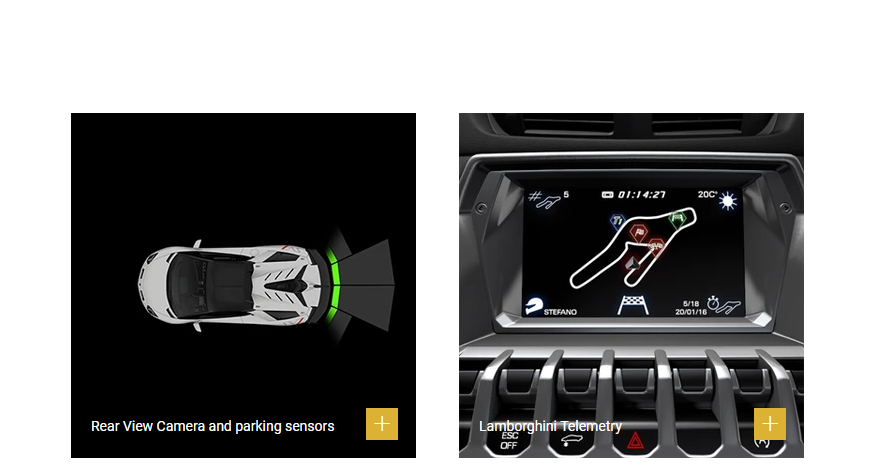
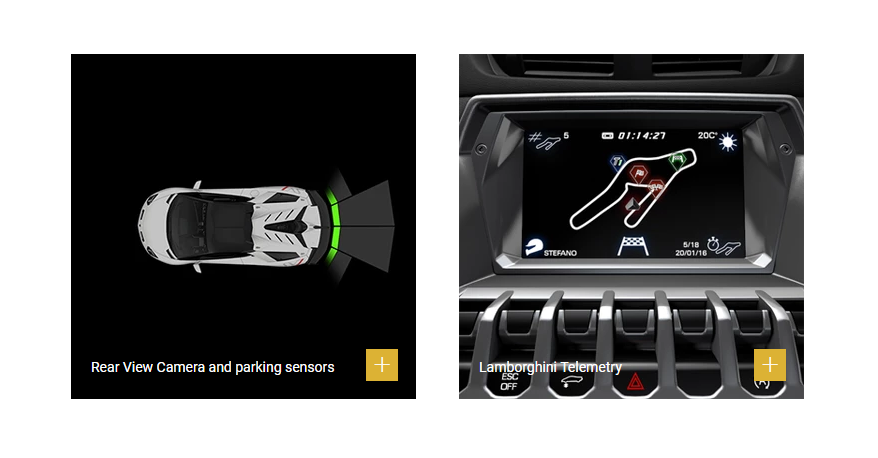
new commit

diff --git a/index.html b/index.html
@@ -4,29 +4,29 @@
     <meta charset="UTF-8">
     <meta name="viewport" content="width=device-width, initial-scale=1.0">
     
-    <link rel="stylesheet" href="styles.css">
+    <link rel="stylesheet" href="styles3.css">
     <title>Lamborghini Configurator</title>
     </head>
     <body>
-        <br><br><br><br>
+        <br><br><br><br><br><br><br>
 
 <div class="everything">
 
  <div class="row">     
 
-      
     <p>AVENTADOR SVJ 63 ROADSTER EDITION</p>
     <hr class="hr1">
+       
     <div style="letter-spacing: .5em;" class="links">     
-      <a href="index.html" style="color: rgb(255, 81, 0);" >EXTERIOR</a>
-      &nbsp;&nbsp;     &nbsp;    
-      <a href="interior.html" >INTERIOR</a>
-          &nbsp;&nbsp;        &nbsp;    
-  
-      <a href="options.html">OPTIONS</a>
-          &nbsp;         &nbsp;    
-      <a href="extra.html">YOUR CAR</a>
-  </div>
+        <a href="index.html" style="color: rgb(255, 81, 0);" >EXTERIOR</a>
+        &nbsp;&nbsp;     &nbsp;    
+        <a href="interior.html"  >INTERIOR</a>
+            &nbsp;&nbsp;        &nbsp;    
+    
+        <a href="options.html">OPTIONS</a>
+            &nbsp;         &nbsp;    
+        <a href="extra.html">YOUR CAR</a>
+    </div>
      <br><br><br><br><br><br><br>
     <br><br><br><br><br>
 <br><br><br><br><br><br><br><br><br><br><br><br><br><br><br>     
@@ -34,11 +34,11 @@
 
 <div class="menu">
 <div class="dropup">
-    <button class="dropbtn">Rims</button>
+    <button class="dropbtn">Rims </button>
     <div class="dropup-content">
-      <a href="rimbronze.html"><img class="rim" src="images/leirionbronze.png"></a>
-      <a href="rimblack.html"><img class="rim" src="images/leirionshinyblack.png" >  </a>
-      <a href="rimtitanium.html"><img class="rim" src="images/leiriontitanium.png" > </a>
+        <a href="rimbronze.html"><img class="rim" src="images/leirionbronze.png"></a>
+        <a href="rimblack.html"><img class="rim" src="images/leirionshinyblack.png"></a>
+        <a href="rimtitanium.html"><img class="rim" src="images/leiriontitanium.png"></a>
     </div>
   </div>
 
@@ -46,7 +46,7 @@
 
 
   <div class="dropup">
-    <button class="dropbtn"> Nireo</button>
+    <button class="dropbtn">Nireo</button>
     <div class="dropup-content">
       <a href="index.html"><img class="rim" src="images/nireo.png"></a>
      </div>
@@ -55,9 +55,9 @@
   <div class="dropup">
     <button class="dropbtn">Roof</button>
     <div class="dropup-content">
-      <a href="index.html"><img class="rim" src="images/roof1.png" alt=""></a>
-      <a href="roof.html"><img class="rim" src="images/roof2.png" alt=""></a>
-    
+        <a href="index.html"><img class="rim" src="images/roof1.png" alt=""></a>
+        <a href="roof.html"><img class="rim" src="images/roof2.png" alt=""></a>
+      
     </div>
   </div>
 

diff --git a/styles.css b/styles.css
@@ -1,12 +1,11 @@
 
+
 .row {
   text-align: center;
     background-image: url(images/lamborghinirim2.png);
     background-position: center;
     background-repeat: no-repeat;
     background-color: rgb(255, 255, 255);
-    height: 500px;
-    width: 900px;
     align-items: center;
     text-align: center;
 }
@@ -19,14 +18,12 @@ p {
   letter-spacing: 1em;
   font-family: sans-serif;
   font-size: 2.3ex;
-
   font: outline;
   text-align: center;
 }
 
 .rim {
   transition: transform .2s; /* Animation */
- 
 }
 
 .rim:hover {
@@ -37,9 +34,7 @@ p {
     /* border: 1px solid red; */
     width: 100%;
     align-content: center;
-
 }
-
 
 
 a:hover {
@@ -47,7 +42,6 @@ a:hover {
 }
 
 a {
-    
     text-decoration: none;
     font-family: sans-serif;
     font-size: 1.3ex;
@@ -60,16 +54,19 @@ a {
   max-width: 186px;
   min-height: 65px;
   color: rgb(87, 87, 87, 0.5);
-
   text-decoration: none;
   display: block;
-  /* border: 1px solid rgb(255, 255, 255); */
+  
+  /* border: 1px solid r
+  gb(255, 255, 255); */
 }
 
 .menu {
     text-align: center;
+    padding: 50px;
 
 }
+
 .dropup:hover .dropbtn {
   margin-top: 15px;
   text-align: center;
@@ -138,7 +135,13 @@ a {
                   0.3em 0.3em 1em rgba(172, 172, 172, 0.3); */
   } 
   
-
+  img {
+    opacity: 0.5;
+  }
+  
+  img:hover {
+    opacity: 1.0;
+  }
   
 /*   
   .dropup:hover .dropbtn img{ 

diff --git a/extra.html b/extra.html
@@ -8,7 +8,8 @@
     <title>Lamborghini Configurator</title>
     </head>
     <body>
-        <br><br><br><br>
+        <br><br><br><br><br><br><br>
+
 
 <div class="everything">
 
@@ -30,7 +31,7 @@
     </div>
      <br><br><br><br><br><br><br>
     <br><br><br><br><br>
-<br><br><br><br><br><br><br><br><br><br><br><br><br><br><br>     
+<br><br><br><br><br><br><br><br><br><br><br><br><br><br><br><br><br><br><br><br>
 <!-- 
 
 <div class="menu">

diff --git a/styles5.css b/styles5.css
@@ -5,10 +5,9 @@
       background-position: center;
       background-repeat: no-repeat;
       background-color: rgb(255, 255, 255);
-      height: 500px;
-      width: 900px;
       align-items: center;
       text-align: center;
+      margin-bottom: 15%;
   }
   
   .everything {
@@ -63,6 +62,7 @@
   
     text-decoration: none;
     display: block;
+    
     /* border: 1px solid rgb(255, 255, 255); */
   }
   

diff --git a/options.html b/options.html
@@ -8,7 +8,8 @@
     <title>Lamborghini Configurator</title>
     </head>
     <body>
-        <br><br><br><br>
+        <br><br><br><br><br><br><br>
+
 
 <div class="everything">
 
@@ -31,7 +32,7 @@
      <br><br><br><br><br><br><br>
     <br><br><br><br><br>
 <br><br><br><br><br><br><br><br><br><br><br><br><br><br><br>     
-
+<br><br><br><br><br>
 <!-- 
 <div class="menu">
 <div class="dropup">

diff --git a/styles7.css b/styles7.css
@@ -5,8 +5,7 @@
       background-position: center;
       background-repeat: no-repeat;
       background-color: rgb(255, 255, 255);
-      height: 500px;
-      width: 900px;
+
       align-items: center;
       text-align: center;
   }
@@ -63,6 +62,7 @@
   
     text-decoration: none;
     display: block;
+    
     /* border: 1px solid rgb(255, 255, 255); */
   }
   

diff --git a/styles2.css b/styles2.css
@@ -5,8 +5,6 @@
       background-position: center;
       background-repeat: no-repeat;
       background-color: rgb(255, 255, 255);
-      height: 500px;
-      width: 900px;
       align-items: center;
       text-align: center;
   }
@@ -63,6 +61,7 @@
   
     text-decoration: none;
     display: block;
+    
     /* border: 1px solid rgb(255, 255, 255); */
   }
   

diff --git a/styles3.css b/styles3.css
@@ -5,8 +5,6 @@
       background-position: center;
       background-repeat: no-repeat;
       background-color: rgb(255, 255, 255);
-      height: 500px;
-      width: 900px;
       align-items: center;
       text-align: center;
   }
@@ -63,6 +61,7 @@
   
     text-decoration: none;
     display: block;
+    
     /* border: 1px solid rgb(255, 255, 255); */
   }
   

diff --git a/styles4.css b/styles4.css
@@ -5,8 +5,6 @@
       background-position: center;
       background-repeat: no-repeat;
       background-color: rgb(255, 255, 255);
-      height: 500px;
-      width: 900px;
       align-items: center;
       text-align: center;
   }
@@ -63,6 +61,7 @@
   
     text-decoration: none;
     display: block;
+    
     /* border: 1px solid rgb(255, 255, 255); */
   }
   

diff --git a/styles6.css b/styles6.css
@@ -5,8 +5,6 @@
       background-position: center;
       background-repeat: no-repeat;
       background-color: rgb(255, 255, 255);
-      height: 500px;
-      width: 900px;
       align-items: center;
       text-align: center;
   }
@@ -63,6 +61,7 @@
   
     text-decoration: none;
     display: block;
+    
     /* border: 1px solid rgb(255, 255, 255); */
   }
   

diff --git a/rimblack.html b/rimblack.html
@@ -8,13 +8,13 @@
     <title>Lamborghini Configurator</title>
     </head>
     <body>
-        <br><br><br><br>
+        <br><br><br><br><br><br><br>
+
 
 <div class="everything">
 
  <div class="row">     
 
-      
     <p>AVENTADOR SVJ 63 ROADSTER EDITION</p>
     <hr class="hr1">
        

diff --git a/styles8.css b/styles8.css
@@ -5,8 +5,6 @@
       background-position: center;
       background-repeat: no-repeat;
       background-color: rgb(255, 255, 255);
-      height: 500px;
-      width: 900px;
       align-items: center;
       text-align: center;
   }
